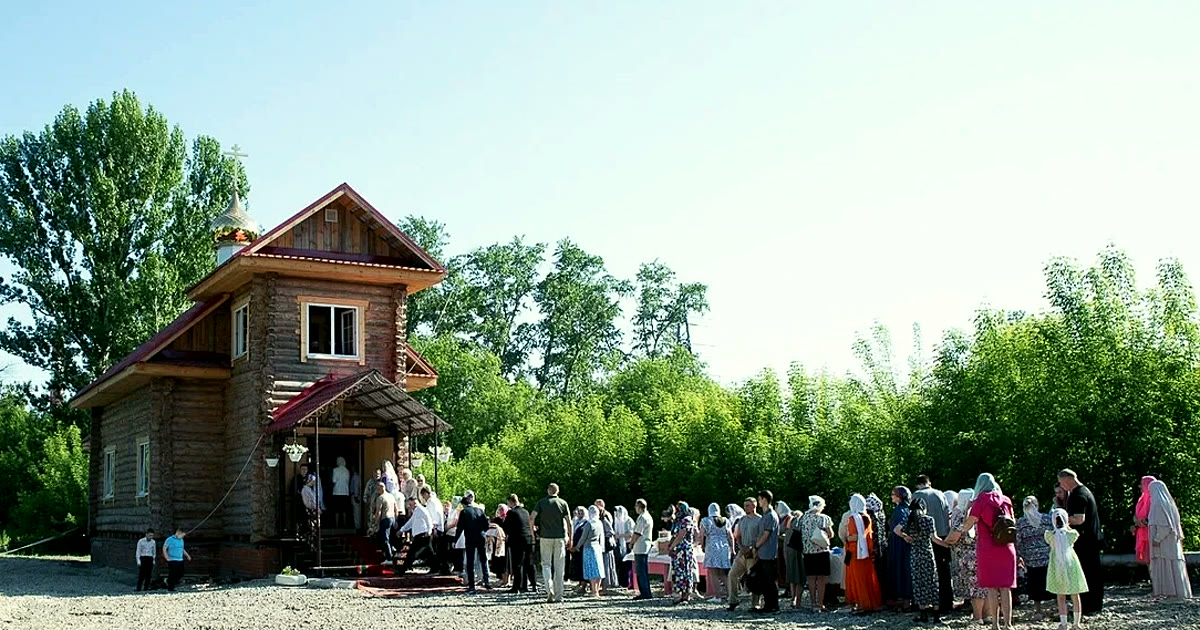
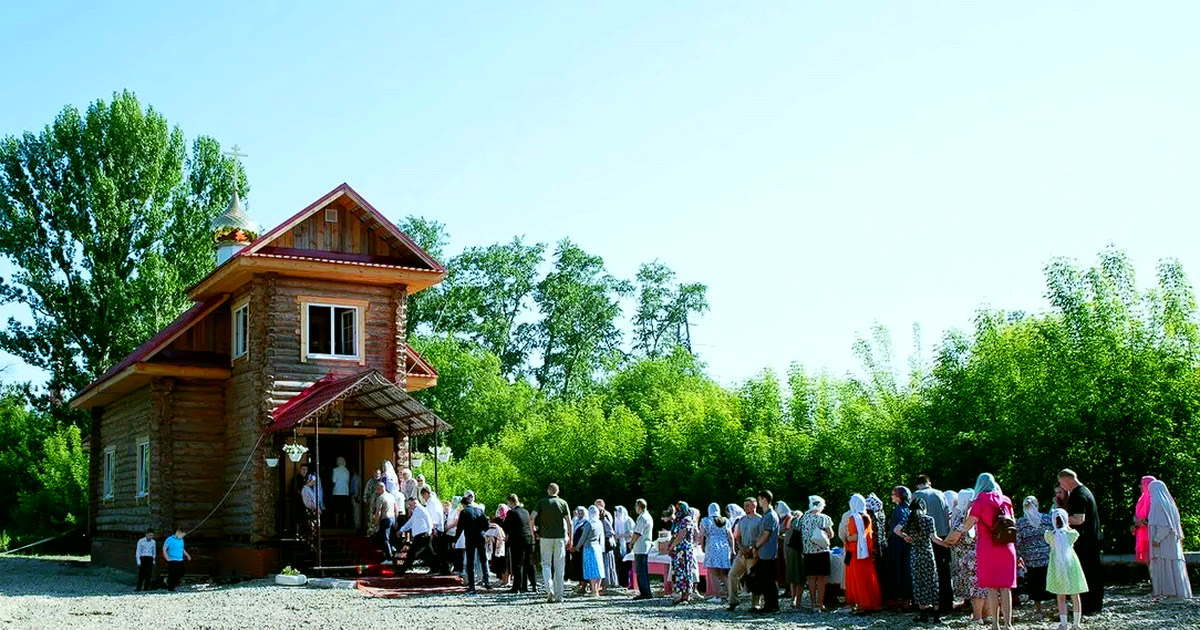
Фото первого экрана: новая цветокоррекция, 2x разрешение, убран провод над деревьями

diff --git a/index.html b/index.html
@@ -132,7 +132,7 @@
           <div class="arch__inner">
             <picture>
               <source srcset="images/hero.webp" type="image/webp">
-              <img class="arch__img" src="images/hero.jpg" width="627" height="760" fetchpriority="high" decoding="async"
+              <img class="arch__img" src="images/hero.jpg" width="1254" height="1520" fetchpriority="high" decoding="async"
                    alt="Временный деревянный храм святителя Спиридона Тримифунтского в Пензе; прихожане у крыльца после богослужения">
             </picture>
           </div>
